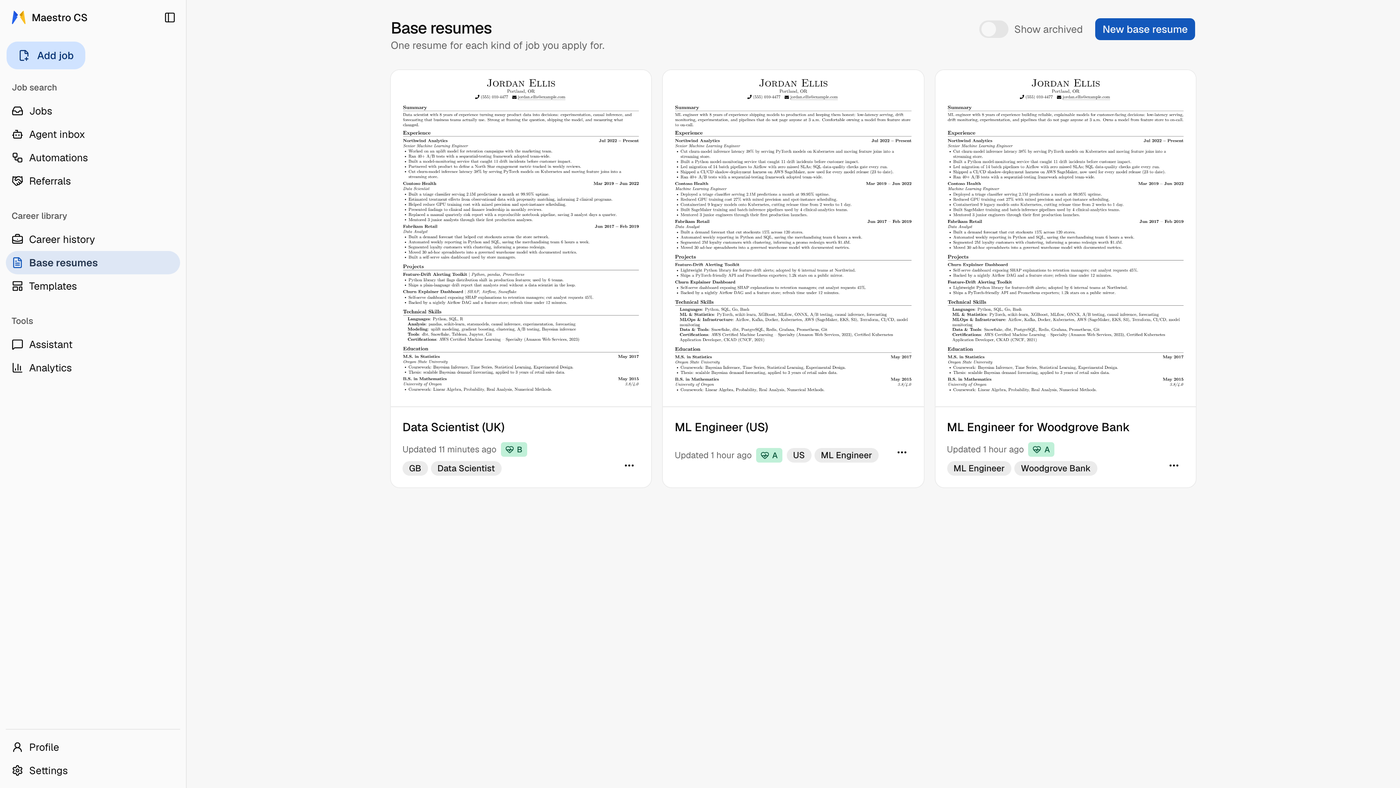
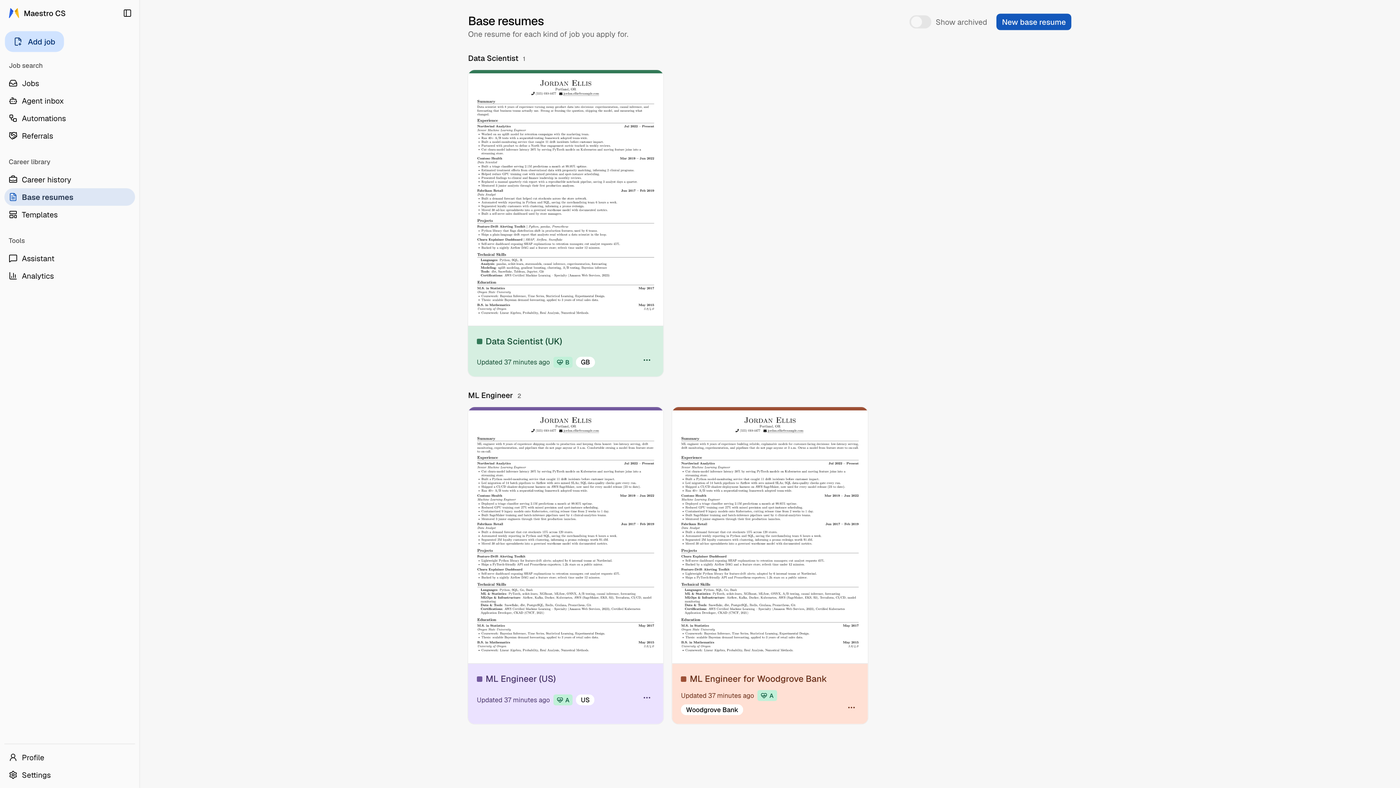
media: 0.11.0 captures, the Companion GIF shows Apply
The job page's four numbered steps, per-resume colours, the one-line Agent
inbox, and a Companion run that fills two pages, clicks Next and stops on
Review with Submit untouched. Same filenames and sizes.

diff --git a/lib/media.ts b/lib/media.ts
@@ -1,8 +1,9 @@
 /** Intrinsic sizes of the shipped captures, so the layout reserves space and
  *  never shifts while a screenshot or video decodes. Keep every entry in step
  *  with a file in public/media/, and every file with a use on the site.
- *  The stills are v0.10.1 captures of the fictional Jordan Ellis persona
- *  (maestro-marketing/site-media/MANIFEST.md says what each one shows). */
+ *  The stills and the Companion GIF are 0.11.0 captures of the fictional
+ *  Jordan Ellis persona (maestro-marketing/site-media-1016/MANIFEST.md says
+ *  what each one shows). The hero loop is still built from v0.10.1 captures. */
 export const mediaSize: Record<string, { width: number; height: number }> = {
   "/media/hero.mp4": { width: 1512, height: 850 },
   "/media/base-gallery.png": { width: 1400, height: 788 },

diff --git a/README.md b/README.md
@@ -128,8 +128,12 @@ wrong makes the site lie:
 3. **Vocabulary is the app's:** Match score (never "ATS score"), Career history,
    Jobs, Agent inbox, Assistant, Settings › AI & models, the Companion.
 4. **Submitting:** "The Companion fills the form and stops. You press Submit."
-   The opt-in Full automation is stated once on the home page (Your AI) and in
-   the FAQ. Never write a product-wide "never auto-submits".
+   The opt-in Full automation is stated on the home page (Your AI) and in the
+   FAQ. Since 0.11.0 it also turns on the Companion's **Apply** (fills a page,
+   clicks Next, signs in on known application sites, stops on the review page),
+   which the Companion card names too. The Companion never presses Submit.
+   Never write a product-wide "never auto-submits": an agent with Full
+   automation can.
 
 **Voice.** Short sentences, concrete nouns, second person. No em-dash pile-ups, no
 "not X but Y" scaffolding, no throat-clearing. If a sentence has three clauses and
@@ -178,17 +182,18 @@ Both bit during the build and are easy to reintroduce:
 
 ## Captures
 
-The stills and the Companion GIF in `public/media/` are v0.10.1 captures of the
+The stills and the Companion GIF in `public/media/` are 0.11.0 captures of the
 fictional persona "Jordan Ellis", made on a throwaway stack and kept in the
-private marketing repo (`site-media/`, whose `MANIFEST.md` says what each file
-shows and which numbers are on screen). Re-copy from there rather than
+private marketing repo (`site-media-1016/`, whose `MANIFEST.md` says what each
+file shows and which numbers are on screen). Re-copy from there rather than
 re-recording, and keep `lib/media.ts` in step with any change in pixel
 dimensions. An animated GIF has a still in `gifStill` that readers who prefer
-reduced motion see instead (`extension.gif` falls back to `companion.png`).
+reduced motion see instead (`extension.gif`, which shows Apply walking two
+pages and stopping on Review, falls back to `companion.png`, its last frame
+at full size).
 
 Each feature card crops its capture to 7:4 from the top, so cards side by side
-line up. `lib/media.ts` marks every capture still waiting on a v0.10.1 recapture
-with `TODO(capture)`.
+line up.
 
 One exception:
 
